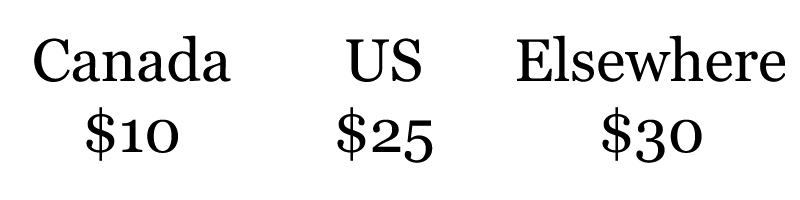
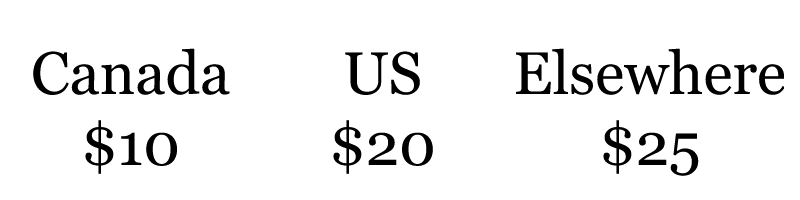
Rates Update

diff --git a/BuyNow.html b/BuyNow.html
@@ -20,7 +20,7 @@
             <h1>How to Order</h1>
             
             <div style="width:600px"><p style="text-align:center">If you are interested in purchasing any product please send an email to hordeofcolours@gmail.com with the following information: </p></div>
-            <p1>Your Name, Country and Postal Information</p1>
+            <p1>Your Name, Country and Postal Information (including phone number)</p1>
             <p1>Name of and Amount of Items (please use their product ID: e.g. CC001)</p1>
             <img id="rates" src="./Media/Rates.png" alt ="Rates">
             <div style="width:600px"><p style="text-align:center">I will respond back to you with a PayPal link and after payment I will send you tracking information when it becomes available. Prices are in Canadian.</p></div>
